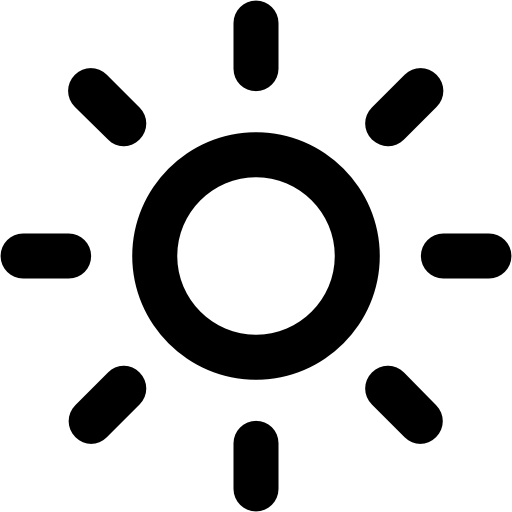
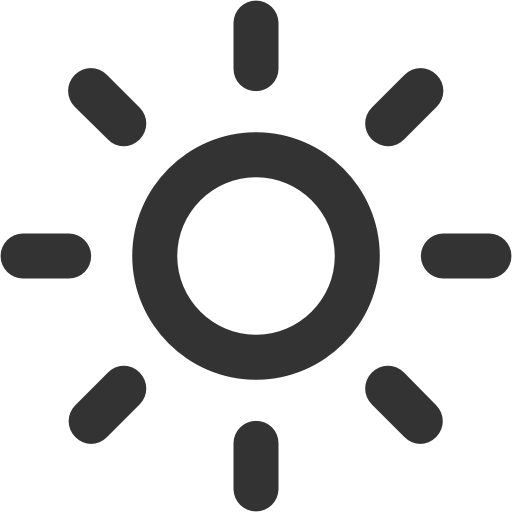
Changing color of images to match font

diff --git a/js/quote.js b/js/quote.js
@@ -4,7 +4,7 @@ if (navigator.geolocation) {
     $.getJSON("http://api.openweathermap.org/data/2.5/weather?lat=" + position.coords.latitude + "&lon=" + position.coords.longitude + "&units=imperial&APPID=42a747e29b71f50616529415fc4e1359", function(json) {
       console.log(json);
       //temperature in fahrenheit
-      $("#temp").html(Math.ceil(json.main.temp) + '˚' + ' <br/><br/><img width="64" src="PNG/' + json.weather[0].icon + '.png"' + ' />');
+      $("#temp").html(Math.ceil(json.main.temp) + '˚' + ' <br/><img width="128" src="PNG/' + json.weather[0].icon + '.png"' + ' />');
       $("#city").html(json.name + ', ' + json.sys.country + ' is experiencing ' + json.weather[0].main);
     });
   });
